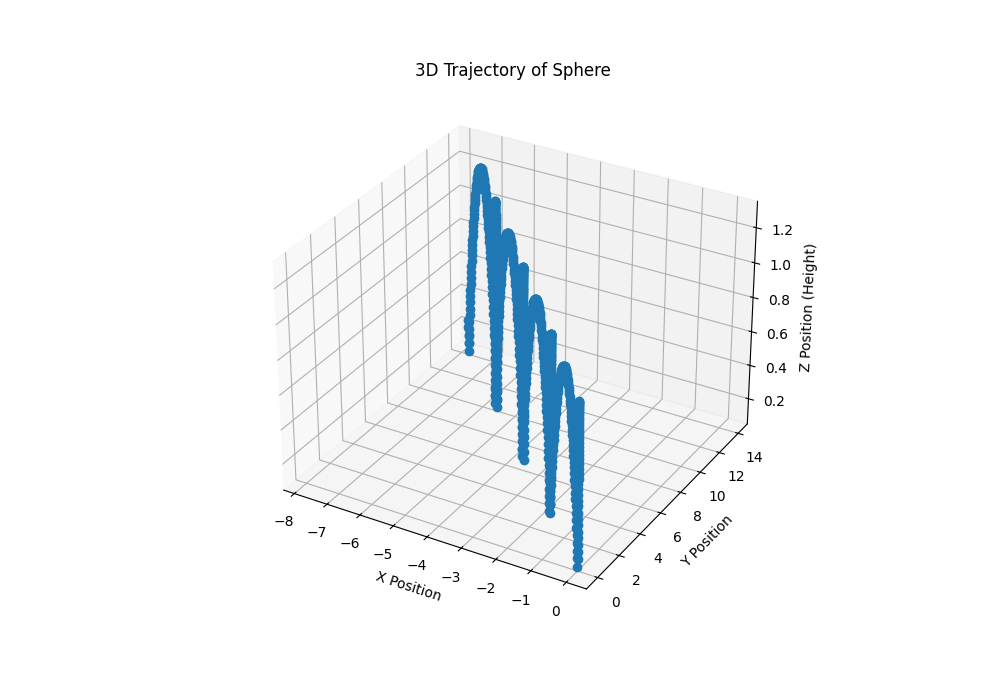
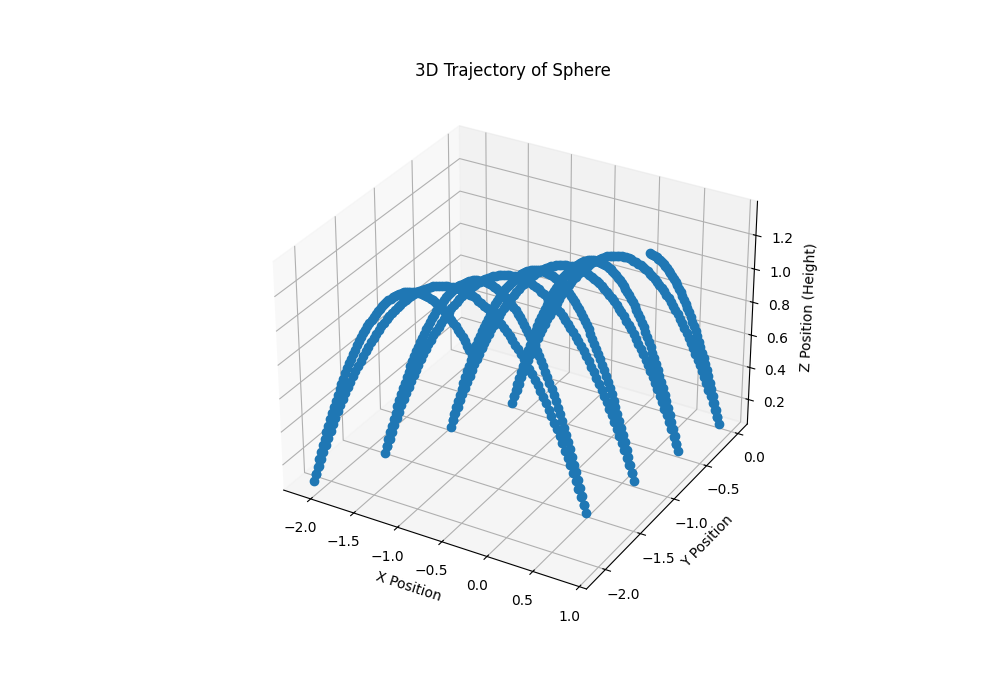
Added code to apply initial linear velocity to the sphere

diff --git a/src/main.py b/src/main.py
@@ -37,7 +37,9 @@ data = mj.MjData(model)
 # ✅ Set initial angular velocity for the ball (spin around z-axis)
 ball_joint_id = mj.mj_name2id(model, mj.mjtObj.mjOBJ_JOINT, "ball_joint")
 # Spin around z-axis at 20 rad/s
-angular_velocity = np.array([-9.0, -5.0, 3.0])
+angular_velocity = np.array([3.0, 0.0, 0.0])
+linear_velocity = np.array([2.0, 0.0, 0.0])
+data.qvel[:3] = linear_velocity
 data.qvel[3:6] = angular_velocity
 
 # --- Initialize logger
